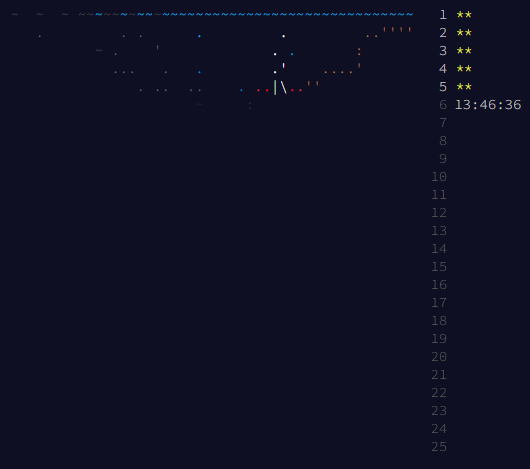
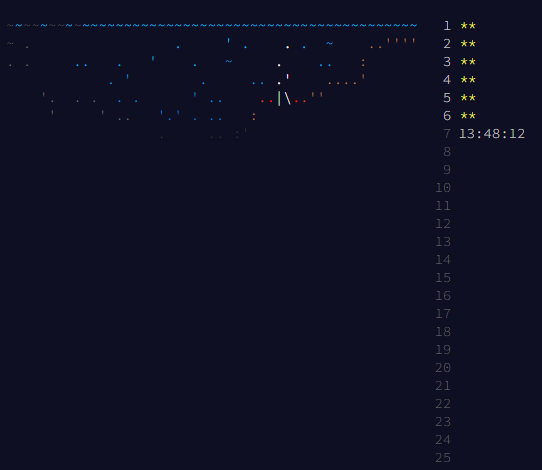
d6p2 done sub 1ms

diff --git a/2021/day06/index.js b/2021/day06/index.js
@@ -1,0 +1,78 @@
+import { performance } from 'perf_hooks'
+import { importFile } from '../../utils/index.mjs'
+
+console.clear()
+
+const day = '06'
+const dir = `2021/day${day}`
+const filename = `${day}.in`
+let input = importFile(dir, filename).split(',').map(Number)
+let fishes = new Map()
+input.forEach(el => {
+  if(fishes.has(el)) {
+    const curr = fishes.get(el)
+    fishes.set(el, curr + 1)
+  } else {
+    fishes.set(el, 1)
+  }
+})
+
+let p1fishes = new Map(fishes)
+let p2fishes = new Map(fishes)
+
+const part1 = () => {
+  for (let day = 1; day <= 80; day++) {
+    const newFishes = new Map()
+    p1fishes.forEach((count, daysLeft) => {
+      if (daysLeft === 0) {
+        const currSix = newFishes.get(6) || 0
+        const currEight = newFishes.get(8) || 0
+        newFishes.set(6, currSix + count)
+        newFishes.set(8, currEight + count)
+      } else {
+        const d = daysLeft - 1
+        const curr = newFishes.get(d) || 0
+        newFishes.set(d, curr + count)
+      }
+    })
+    p1fishes = newFishes
+  }
+  let sum = 0
+  p1fishes.forEach(el => sum += el)
+  return sum
+}
+
+const part2 = () => {
+  for (let day = 1; day <= 256; day++) {
+    const newFishes = new Map()
+    p2fishes.forEach((count, daysLeft) => {
+      if (daysLeft === 0) {
+        const currSix = newFishes.get(6) || 0
+        const currEight = newFishes.get(8) || 0
+        newFishes.set(6, currSix + count)
+        newFishes.set(8, currEight + count)
+      } else {
+        const d = daysLeft - 1
+        const curr = newFishes.get(d) || 0
+        newFishes.set(d, curr + count)
+      }
+    })
+    p2fishes = newFishes
+  }
+  let sum = 0
+  p2fishes.forEach(el => sum += el)
+  return sum
+}
+
+const p1start = performance.now()
+const p1 = part1()
+const p1end = performance.now()
+
+const p2start = performance.now()
+const p2 = part2()
+const p2end = performance.now()
+
+console.log(`part1: ${(p1end - p1start).toFixed(3)}ms`)
+console.log('part1', p1)
+console.log(`part2: ${(p2end - p2start).toFixed(3)}ms`)
+console.log('part2', p2)

diff --git a/2021/day06/README.md b/2021/day06/README.md
@@ -1,0 +1,3 @@
+## JavaScript
+#### part1: 0.213ms
+#### part2: 0.541ms
